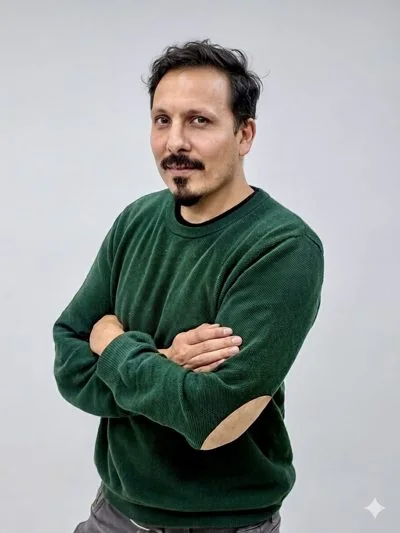
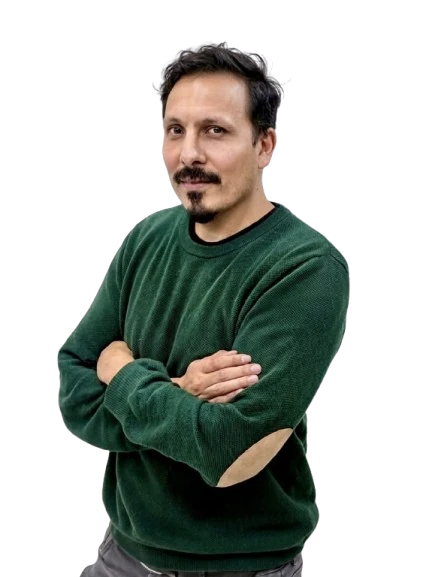
fix(libro): foto del autor con la imagen final (PNG sin fondo)
Reemplaza la foto extraída de la landing por la imagen final sin fondo
(432×577, webp con transparencia) y actualiza sus dimensiones.

diff --git a/public/libro/index.html b/public/libro/index.html
@@ -307,7 +307,7 @@ footer a{color:#8FA6B8}
 
 <!-- 10. AUTOR -->
 <section class="author cases"><div class="wrap">
-  <img src="/libro/img/gerardo-riarte.webp" width="400" height="533" loading="lazy" alt="Gerardo Riarte">
+  <img src="/libro/img/gerardo-riarte.webp" width="432" height="577" loading="lazy" alt="Gerardo Riarte">
   <div>
     <div class="k">El autor</div>
     <h2>Gerardo Riarte</h2>
